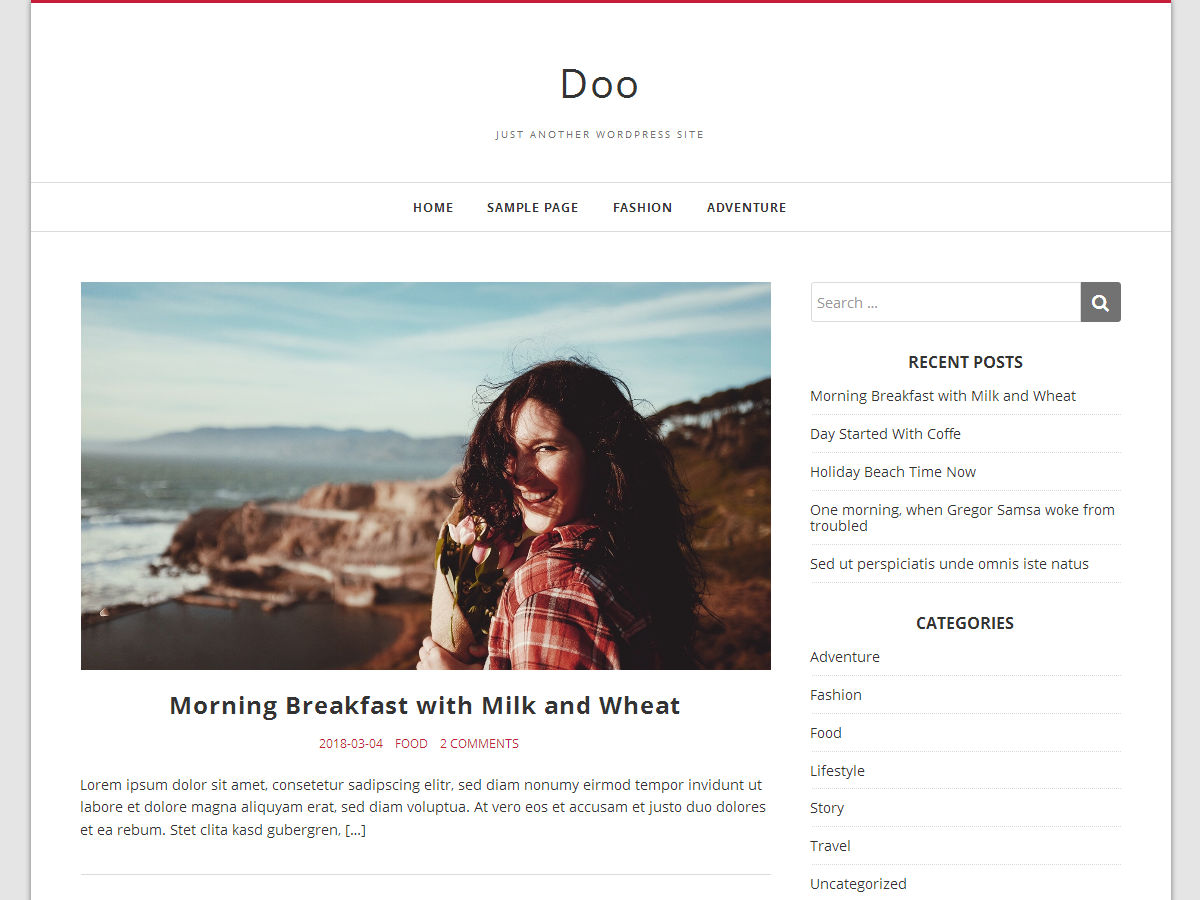
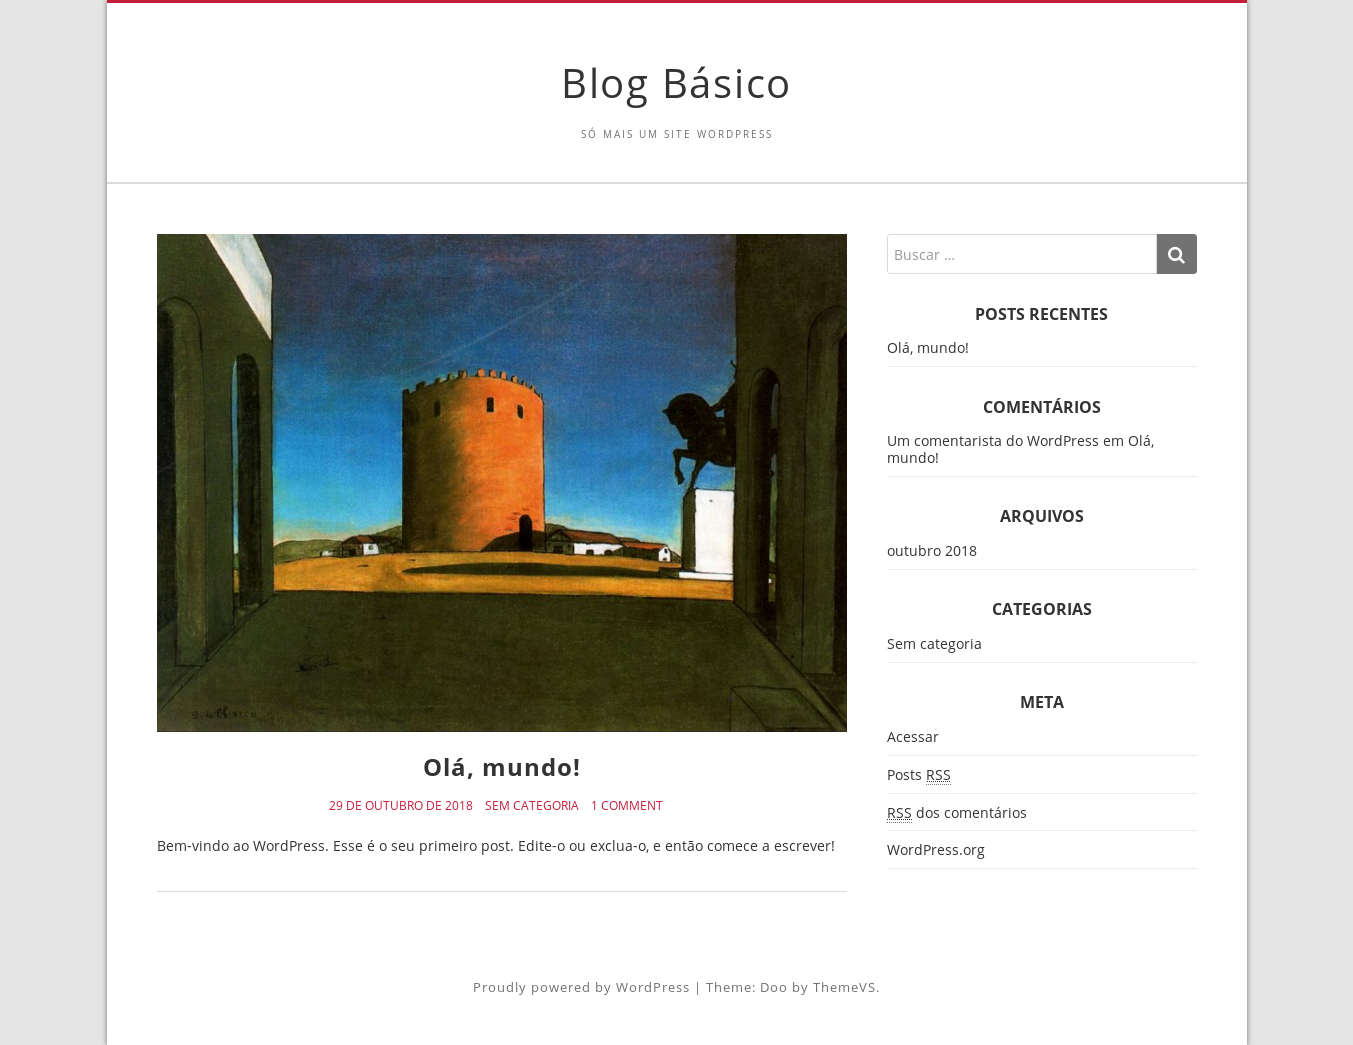
M  screenshot.png M  searchform.php M  style.css

diff --git a/style.css b/style.css
@@ -1,6 +1,6 @@
 /*
-Theme Name: Doo
-Theme URI: https://github.com/aicoutodasilva/basicblog
+Theme Name: Blog Básico
+Theme URI: https://github.com/aicoutodasilva/blogbasico
 Description: A beautiful two-columns WordPress theme
 Version: 0.1.0
 Author: Anderson Ismael
@@ -8,7 +8,7 @@ Author URI: https://github.com/aicoutodasilva
 License: GNU General Public License v2 or later
 License URI: http://www.gnu.org/licenses/gpl-2.0.html
 Tags: one-column,two-columns,left-sidebar,right-sidebar,custom-background,custom-colors,custom-logo,custom-menu,editor-style,featured-images,post-formats,sticky-post,theme-options,threaded-comments,translation-ready,blog,news
-Text Domain: basicblog
+Text Domain: blogbasico
 */
 
 /*--------------------------------------------------------------

diff --git a/searchform.php b/searchform.php
@@ -11,7 +11,7 @@
 
 <form role="search" method="get" class="search-form" action="<?php echo esc_url( home_url( '/' ) ); ?>">
   <div class="input-group">
-    <input type="search" id="<?php echo $unique_id; ?>" class="search-field form-control" placeholder="<?php echo esc_attr_x( 'Search &hellip;', 'placeholder', 'doo' ); ?>" value="<?php echo get_search_query(); ?>" name="s" />
+    <input type="search" id="<?php echo $unique_id; ?>" class="search-field form-control" placeholder="<?php echo esc_attr_x( 'Buscar &hellip;', 'placeholder', 'doo' ); ?>" value="<?php echo get_search_query(); ?>" name="s" />
     <span class="input-group-btn">
       <button type="submit" class="search-submit"><i class="fa fa-search"></i></button>
     </span>
